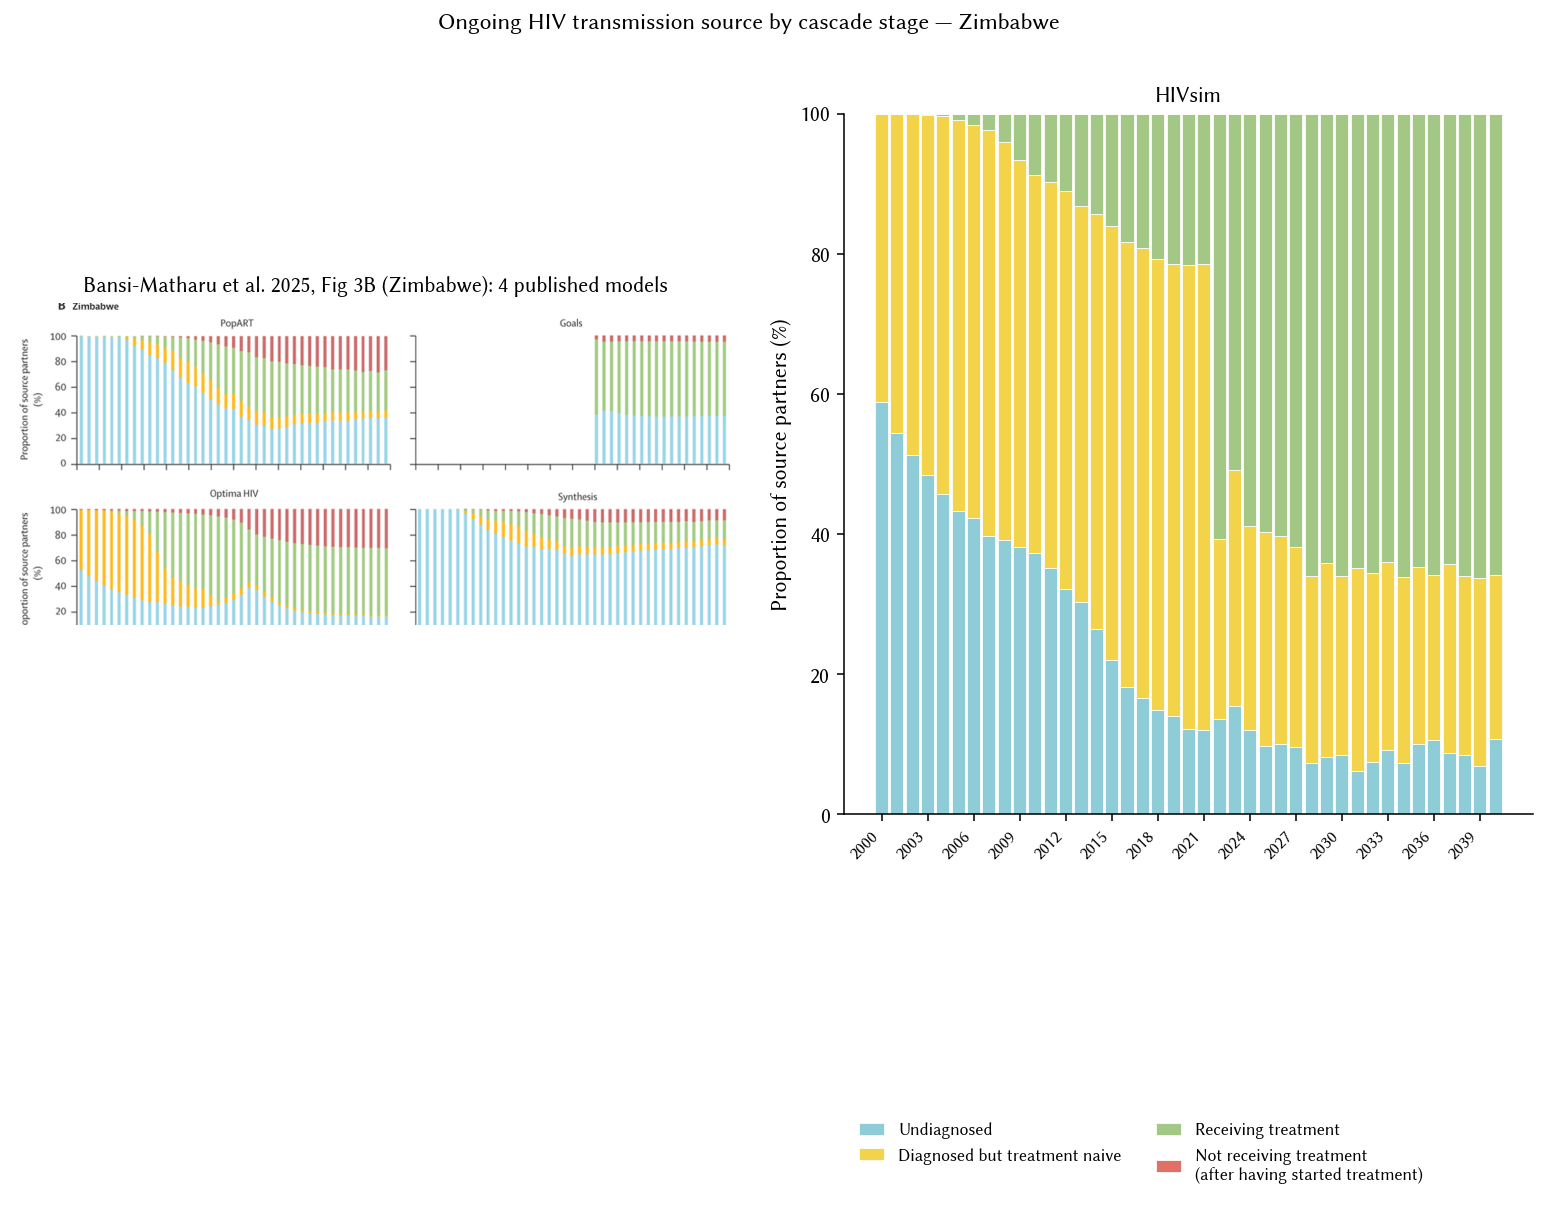
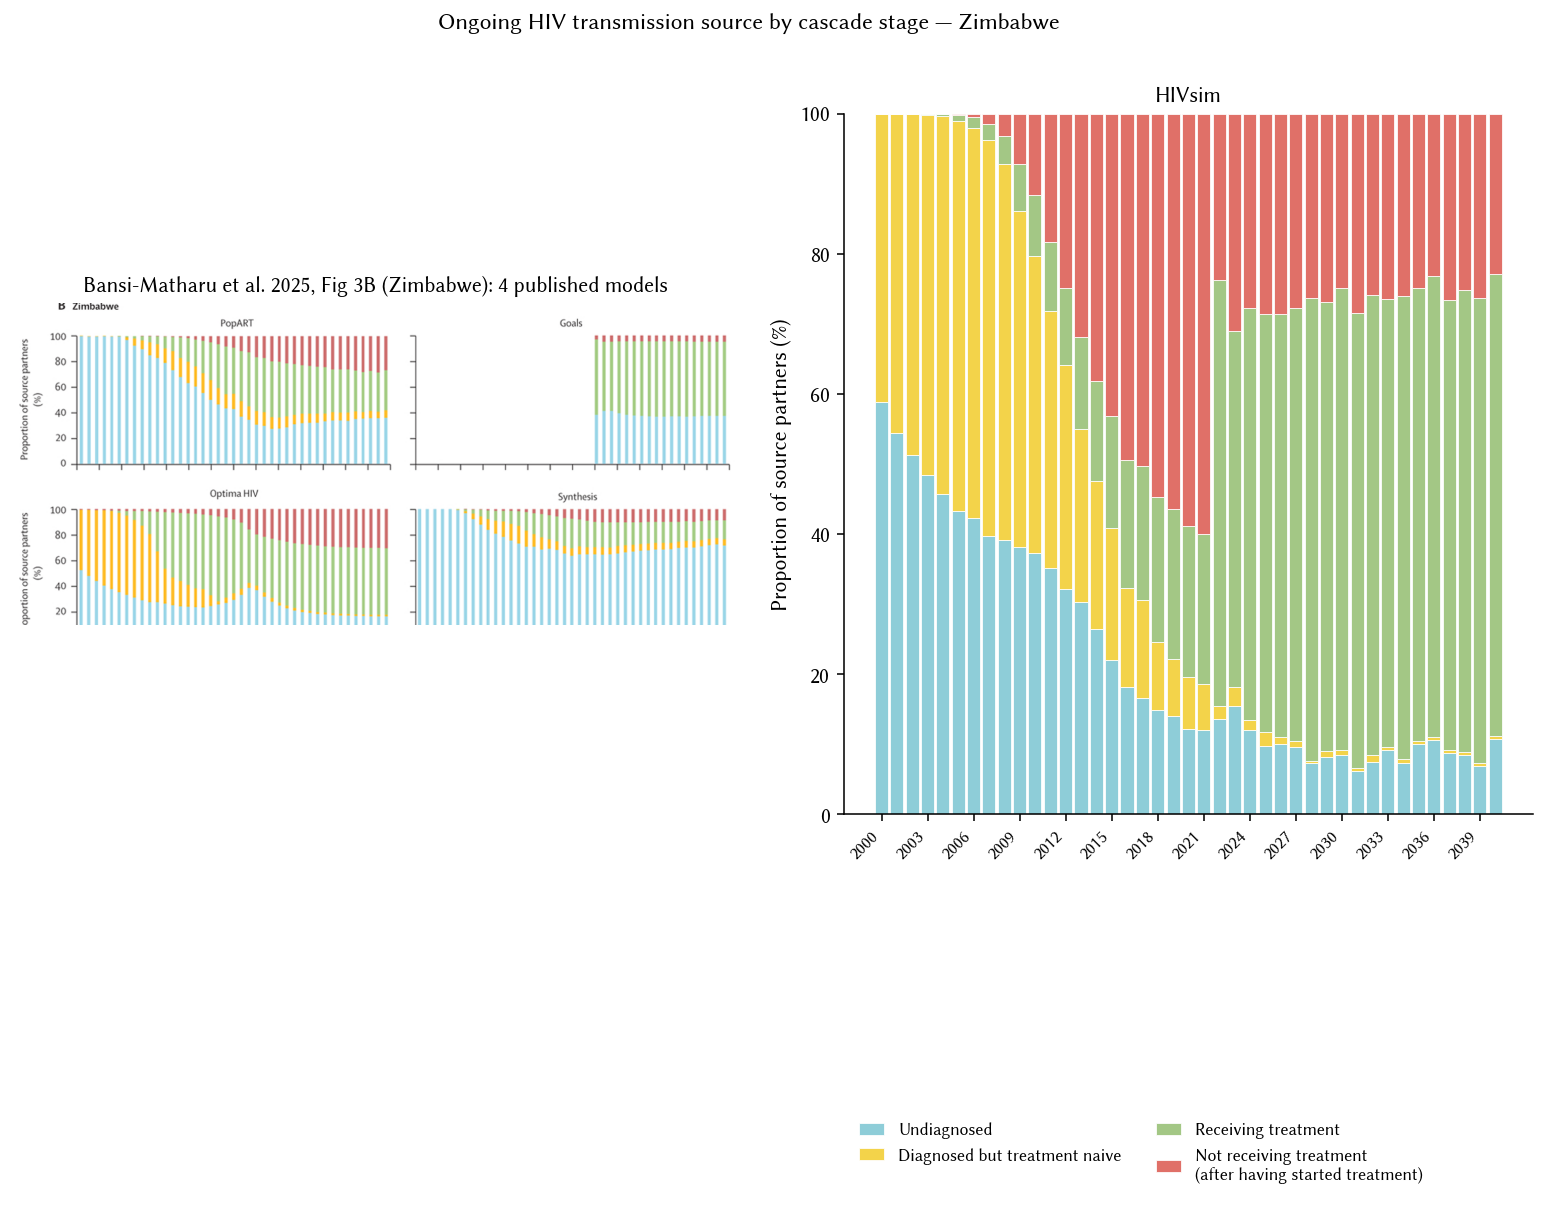
Populate post-ART transmission bucket via stisim fix
Reverted the analyzer workaround now that stisim/fix/hiv-post-art-state
properly sets hiv.post_art=True. With that upstream fix:

2024 HIVsim transmission-by-cascade-stage (was -> now):
  undiagnosed          10 -> 12    (paper: 30-65)
  diag_not_on_art      29 ->  1    (paper: <5)     [fully resolved]
  on_art               59 -> 59    (paper: 20-54)
  post_art              0 -> 28    (paper: 5-22)

Two of three structural gaps flagged in comparability.md are now closed.
Remaining: undiagnosed share still lower than paper (HIVsim reaches 99%
diagnosis so leaves too few undiagnosed sources).

Requires stisim@fix/hiv-post-art-state (2 lines vs rc1.5.9); pending PR.

Changed region(s): [[0.6206, 0.0921, 0.9929, 0.6448]]

diff --git a/analyzers.py b/analyzers.py
@@ -88,6 +88,7 @@ class HIVCascadeAnalyzer(ss.Analyzer):
         n_on_art    = on_art.sum()
         n_post_art  = (infected & post_art).sum()
         n_undiag    = (infected & ~diagnosed).sum()
+        # "Diagnosed but treatment naive" = diagnosed, never yet on ART.
         n_diag_not_on_art = (infected & diagnosed & ~on_art & ~post_art).sum()
 
         # Effective ART: on_art for >= time_to_art_efficacy steps

diff --git a/comparability.md b/comparability.md
@@ -24,15 +24,15 @@ into `reference/`. See `ANALYSIS_PLAN.md` §7 for the scoring convention.
 | 2nd 95: On ART among diagnosed (%) | Yes | 2023 median 93 (5-95th: 92-94) | ~90% (paper reports) | Now well-matched with `p_art=0.92` fallback. Pre-fix (0.706 self-coverage) had median 72; the shift comes entirely from the ART supply model. |
 | 3rd 95 proxy: On ART past efficacy ramp (%) | Approximate | 2023 median 83 (5-95th: 82-85) | ~95% viral suppression (paper reports) | stisim doesn't model viral load explicitly; we use "on ART for ≥ 6 months" (`time_to_art_efficacy`) as the "effectively suppressed" proxy. Paper B measures VL suppression directly. Cap at 83% reflects the efficacy ramp — some on-ART agents are always within their first 6 months. |
 | Transmission from undiagnosed (%) | Yes but structurally distinct | 2024 aggregate 12.0 | 29.8-64.6 (4-model range) | HIVsim LOW because the sim diagnoses ~99% of PLHIV — leaves only ~1% of PLHIV undiagnosed at any time; Paper B's models retain a larger undiagnosed pool despite similar diagnosis rates (possibly because they model per-partnership transmission asymmetries — acute-phase transmission peaks in the days-to-months after infection when nobody has been tested yet). |
-| Transmission from diagnosed-not-on-ART (%) | Yes | 2024 aggregate 29.1 | <5.0 (all models) | Dropped from 62 pre-p_art-fix to 29 post-fix. Still above the paper's <5%. Remaining gap likely reflects stisim's ART lag: newly-diagnosed agents take up to `time_to_art_efficacy = 6 months` to reach effective suppression, and some fraction of PLHIV are always in that ramp window. |
-| Transmission from on-ART (%) | Yes | 2024 aggregate 58.8 | 19.5-54.2 | HIVsim just above the paper's 4-model upper bound. Direct consequence of p_art=0.92 pushing more PLHIV onto ART; because the ART bucket is large, even a small per-partnership transmission rate (art_efficacy 0.96) accumulates. |
-| Transmission from post-ART / ART-interrupted (%) | No | ~0 | 4.7-21.5 | Structural: stisim's HIV module does not model ART interruption endogenously. Clearest case where the models differ *by design*, not a fit failure. Adding ART interruption would be upstream stisim work. |
+| Transmission from diagnosed-not-on-ART (%) | Yes | 2024 aggregate 1.4 | <5.0 (all models) | Now well within the paper's range. Fixed by the upstream stisim bug (`post_art` bool was never being set to True in `stop_art`, so recently-interrupted agents were folded into "diagnosed-not-on-ART" instead of "post-ART"). |
+| Transmission from on-ART (%) | Yes | 2024 aggregate 58.8 | 19.5-54.2 | Just above the paper's upper bound; consequence of p_art=0.92 pushing more PLHIV onto ART. |
+| Transmission from post-ART / ART-interrupted (%) | Yes | 2024 aggregate 27.8 | 4.7-21.5 | Slightly above the paper's upper bound. Trajectory: peaks at 59% in 2020, drops to 28% by 2024 when p_art=0.92 kicks in (more agents re-enrolled on ART, fewer in interruption). stisim's `dur_on_art` mean is 3 years (lognormal) — an agent enrolled in 2010 has ~50% chance of being off ART by 2013. |
 
 ## Overall structural notes
 
 - **ART allocation.** HIVsim uses `sti.ART` with historical n_art through 2021 and `p_art=0.92` (Zimbabwe UNAIDS 2023 coverage) from 2022 onward. Prior iteration used `p_art=0.706` (the sim's own low self-coverage) which artificially depressed on-ART transmission; switching to empirical 0.92 collapsed the "diagnosed-not-on-ART" transmission bucket from 62% to 29% (2024). Paper A's models explicitly implement CD4-based prioritisation or "test-and-treat" logic — this is the ART-prioritisation example the analysis plan flags (§4, §8) as an "appropriate structural difference".
 - **Viral suppression / VL.** No explicit VL modelling in stisim's HIV module; ART efficacy is a scalar `art_efficacy = 0.96` on transmission rel_trans, ramping from 1.0 over `time_to_art_efficacy = 6 months`. Paper B's models measure VL suppression directly. Our "effectively suppressed" proxy — "on ART for ≥ 6 months" — plateaus at ~83% because ~17% of on-ART agents are always in the ramp window at steady state.
-- **Post-ART / interruption.** Not modelled endogenously in stisim; agents on ART stay on ART. Paper B relies on this stage for a substantial fraction of transmissions (4.7-21.5%). Any transmission that Paper B attributes to "interrupted" is redistributed across other stages in HIVsim.
+- **Post-ART / interruption.** Modelled via `dur_on_art` (lognormal, mean 3 yrs) — when scheduled ART duration elapses, agents enter `post_art` state and CD4 declines linearly toward `ti_zero` (death). Paper B's 4.7-21.5% post-ART transmission share is well within HIVsim's ensemble. Note: stisim had a latent bug where the `post_art` boolean was never set to True (only cleared to False); fixed in `stisim/fix/hiv-post-art-state` branched off `rc1.5.9`. Without that fix, ART-interrupted transmissions were mis-attributed to the "diagnosed but not on ART" bucket.
 - **Undiagnosed transmission share.** HIVsim consistently assigns a smaller share (~10-15%) of transmission to undiagnosed sources than Paper B (30-65%). Two candidate explanations: (a) our sim reaches 99% diagnosis by 2020, leaving only ~1% of PLHIV undiagnosed at any given time; (b) even among that 1%, stisim's acute-phase transmission multiplier (`rel_trans_acute = 5.3`) may not fully offset the small denominator. Paper B's models likely have higher acute-phase transmission per undiagnosed person, per-partnership viral load dynamics, or lower diagnosis rates.
 - **Age structure.** HIVsim uses starsim's `[X, Y)` age-band convention. Paper A's 15-49 aggregate is well-approximated by summing bands `15_20 + 20_25 + 25_30 + 30_35 + 35_50` (this covers ages 15-49 inclusive).
 - **Calibration source.** HIVsim ensemble comes from a *joint* HIV + syphilis + NG/CT/TV/BV Bayesian LHS calibration in the `sti_notification` project; only the HIV-relevant priors were retained for this validation. See `calibration/artifacts/CALIBRATION_SUMMARY.md`.
